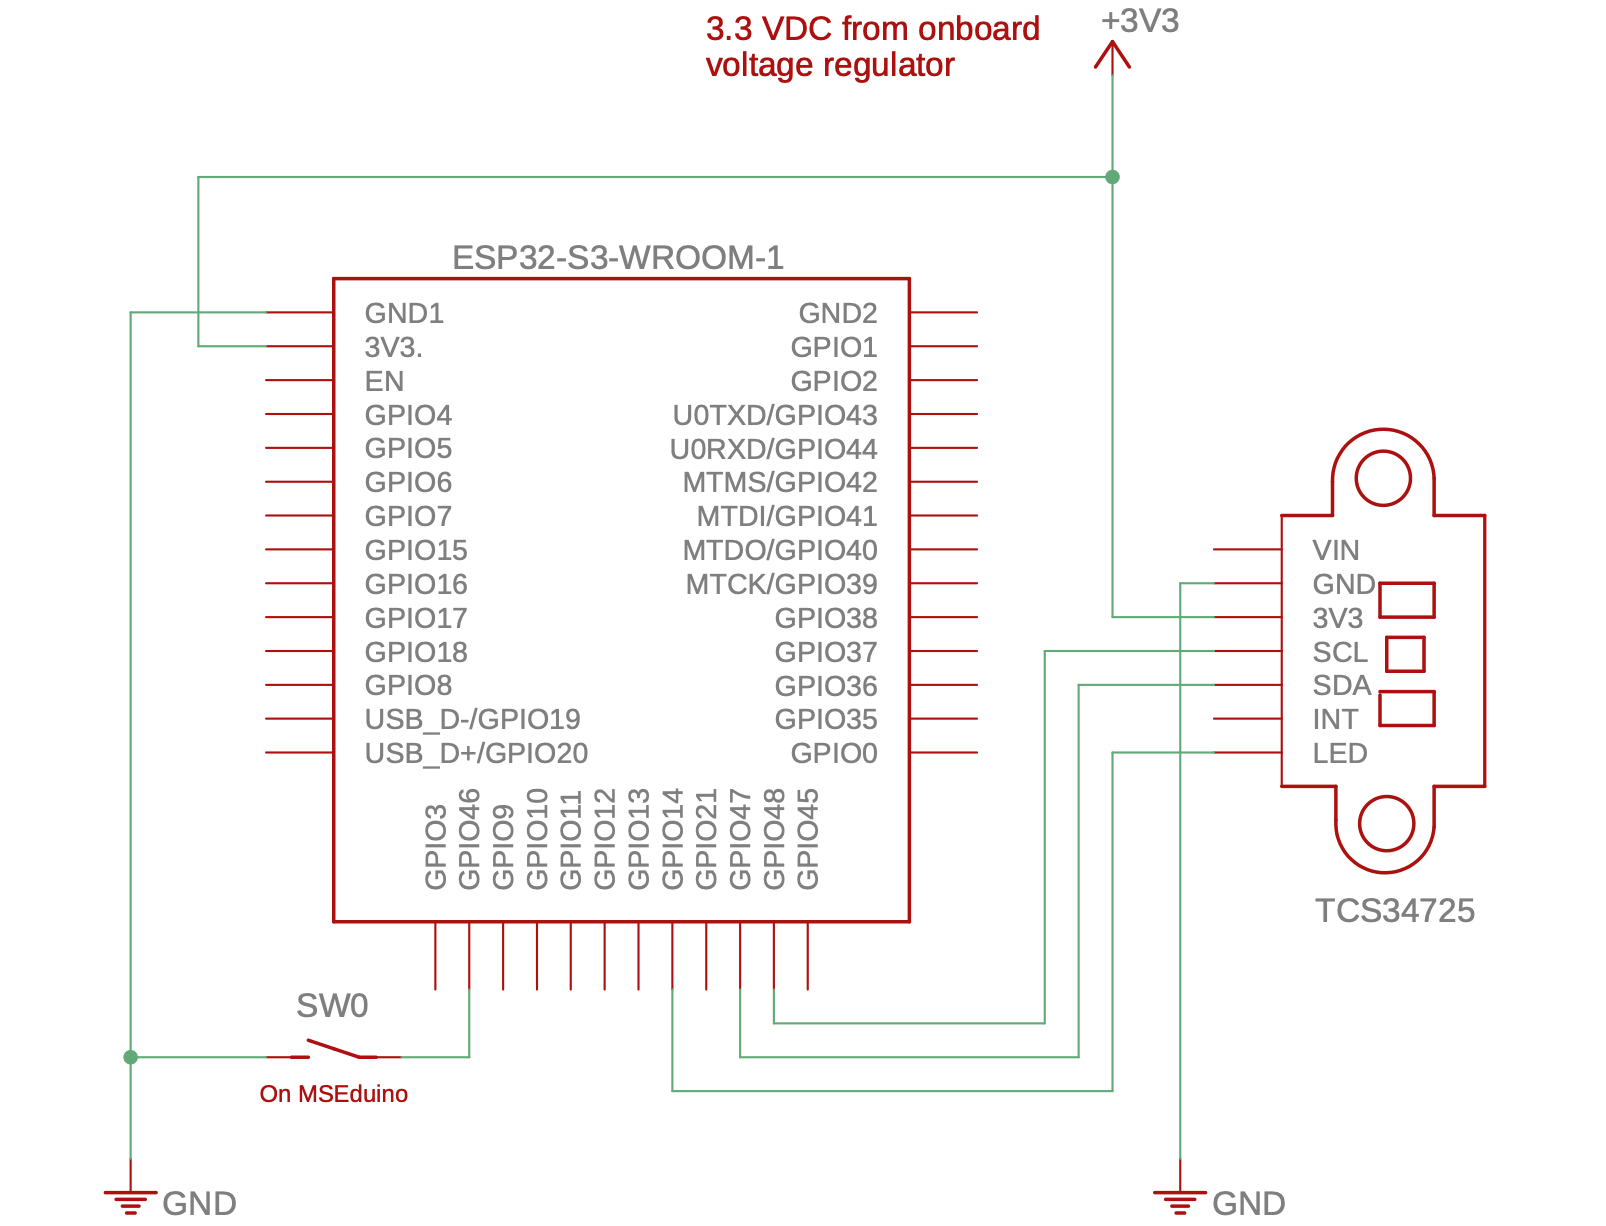
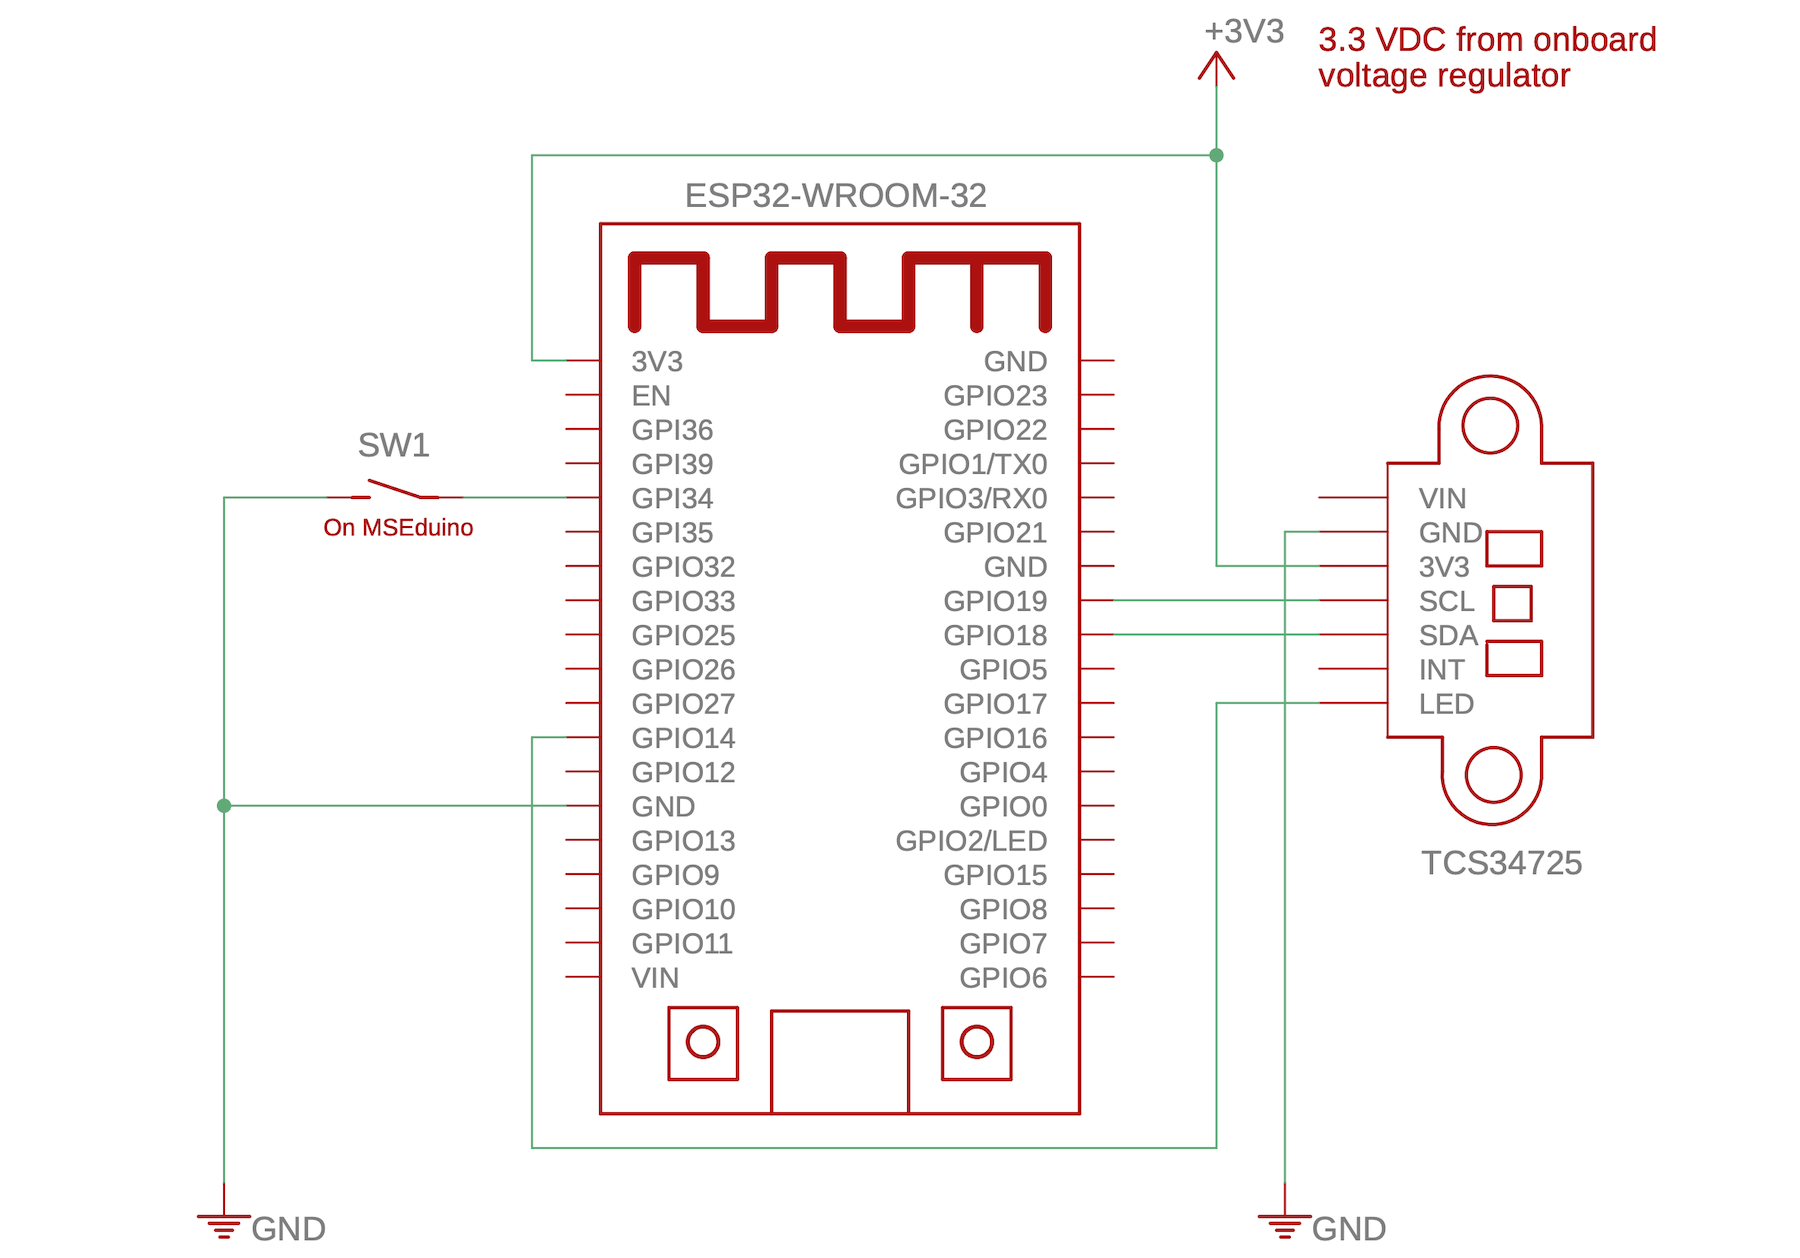
Update for MSEduino R6.1

diff --git a/README.md b/README.md
@@ -1,24 +1,16 @@
 # TCS34725 Demo
 
-This demo connects to a TCS34725 colour sensor over the I2C bus and allows the measured colour components to be observed using the Serial Monitor. If working properly, the RBGC values will vary when objects of different colours are placed in close proximity to the sensor. SW0 (S1-2) may be used to turn the illumination LEDs on the TCS34725 on and off.
+This demo connects to a TCS34725 colour sensor over the I2C bus and allows the measured colour components to be observed using the Serial Monitor. If working properly, the RBGC values will vary when objects of different colours are placed in close proximity to the sensor. SW1 (S1-2) may be used to turn the illumination LEDs on the TCS34725 on and off.
 
 ## Hardware Required
 
 For this demo, you will require the following components:
 
-* MSEduino ESP32-S3 based development board
+* MSEduino ESP32-based development board
 * TCS34725 colour sensor
-* Jumper or Dupont wires (M–F) to connect components
+* Jumper or Dupont wires (–F) to connect components
 
 ![TCS34725 Demo Schematic](docs/TCS34725_schematic.png)
-
-### Build and Flash
-
-Open the [Arduino IDE](https://www.arduino.cc/en/software) and configure it for the ESP32. Use a USB-A extension cable to connect your MSEduino to your computer. Use the **Tools→Board→esp32** menu to select the **Adafruit Feather ESP32-S3 No PRAM board**. The Port should be set as **COMx** on Windows or **dev.cu.usbmodel14101** (or similar) on Mac. The code provided with this lab requires version 2.0.11 of the Arduino-ESP32 boards. Use the **Tools→Board→Boards Manager...** menu and find the **esp32 by Espressif** board package. Confirm that the version is **2.0.11**. If necessary, use the dropdown menu to change versions. The code will not work in versions 3.0+ due to changes made to the underlying esp-idf API.
-
-#### VSCode and PlatformIO
-
-Note that as an alternative to the Arduino IDE, this project can be developed using [VSCode](https://code.visualstudio.com) with the [PlatformIO IDE](https://platformio.org/platformio-ide) extension and the [Espressif 32 platform](https://registry.platformio.org/platforms/platformio/espressif32) installed.
 
 ### Library Installation
 
@@ -33,8 +25,6 @@ The [Adafruit NeoPixel Library](https://github.com/adafruit/Adafruit_NeoPixel) i
 The [Adafruit TCS34725 Library](https://www.arduino.cc/reference/en/libraries/adafruit-tcs34725/) is another third-party library that can be installed from the Ardinio IDE Library Manager. Go to **Tools→Manage Libraries**. Enter "tcs34725" in the filter textbox. Scroll to find the "**Adafruit TCS34725** by Adafruit" library. Ensure that the latest version (≥ 1.4.4) is selected and press the **INSTALL** button. You will be asked whether you also want to install the dependency **Adafruit BusIO**. Select **INSTALL ALL**. 
 
 ![Install Adafruit TCS34725 Library](docs/Install_TCS34725.png)
-
-For users of VSCode/PlatformIO, dependancies for the Adafruit libraries are contained in the `platformio.ini` configuration file. These will automatically install the libraries, if necessary.
 
 ## Resources
 
